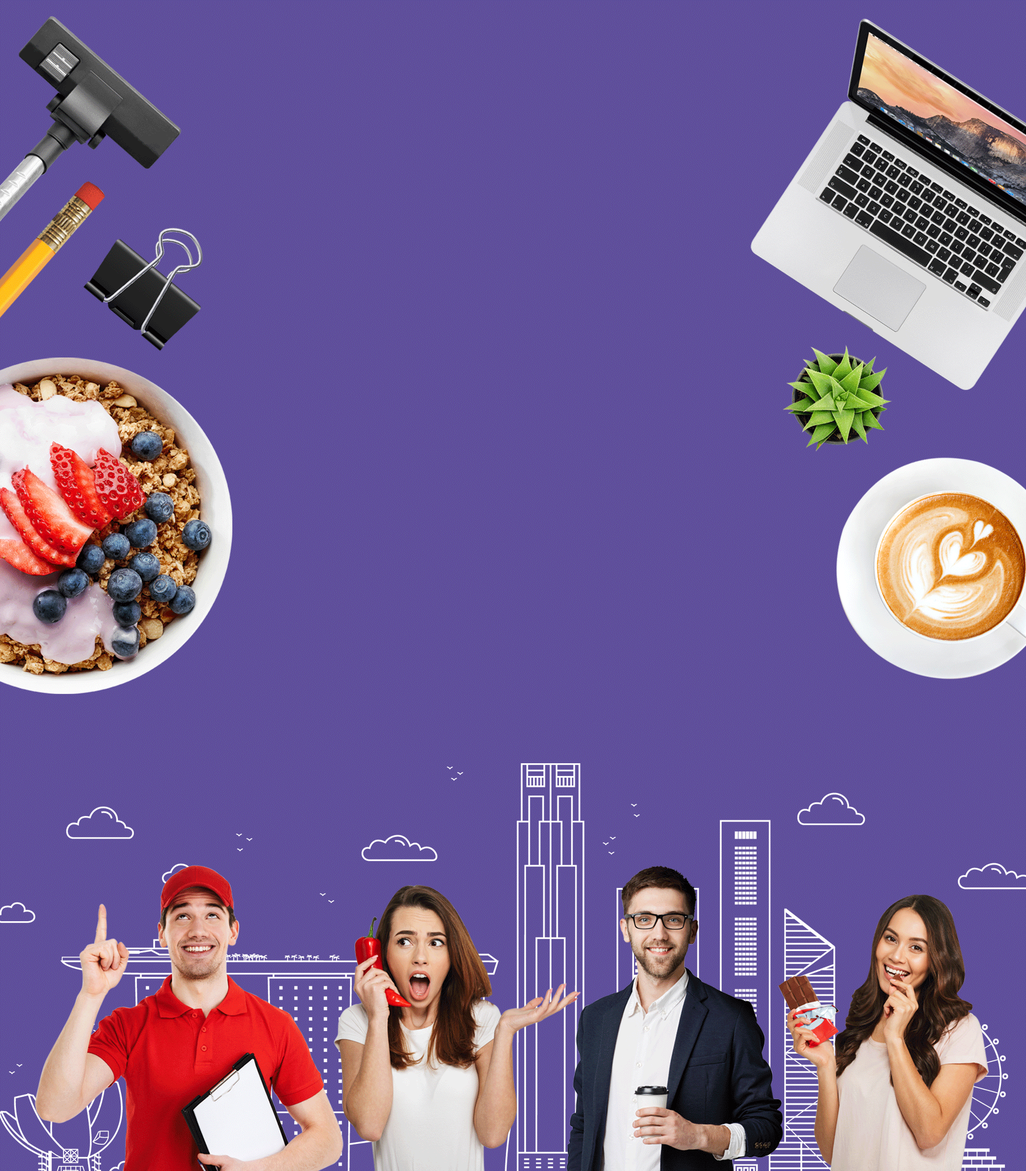
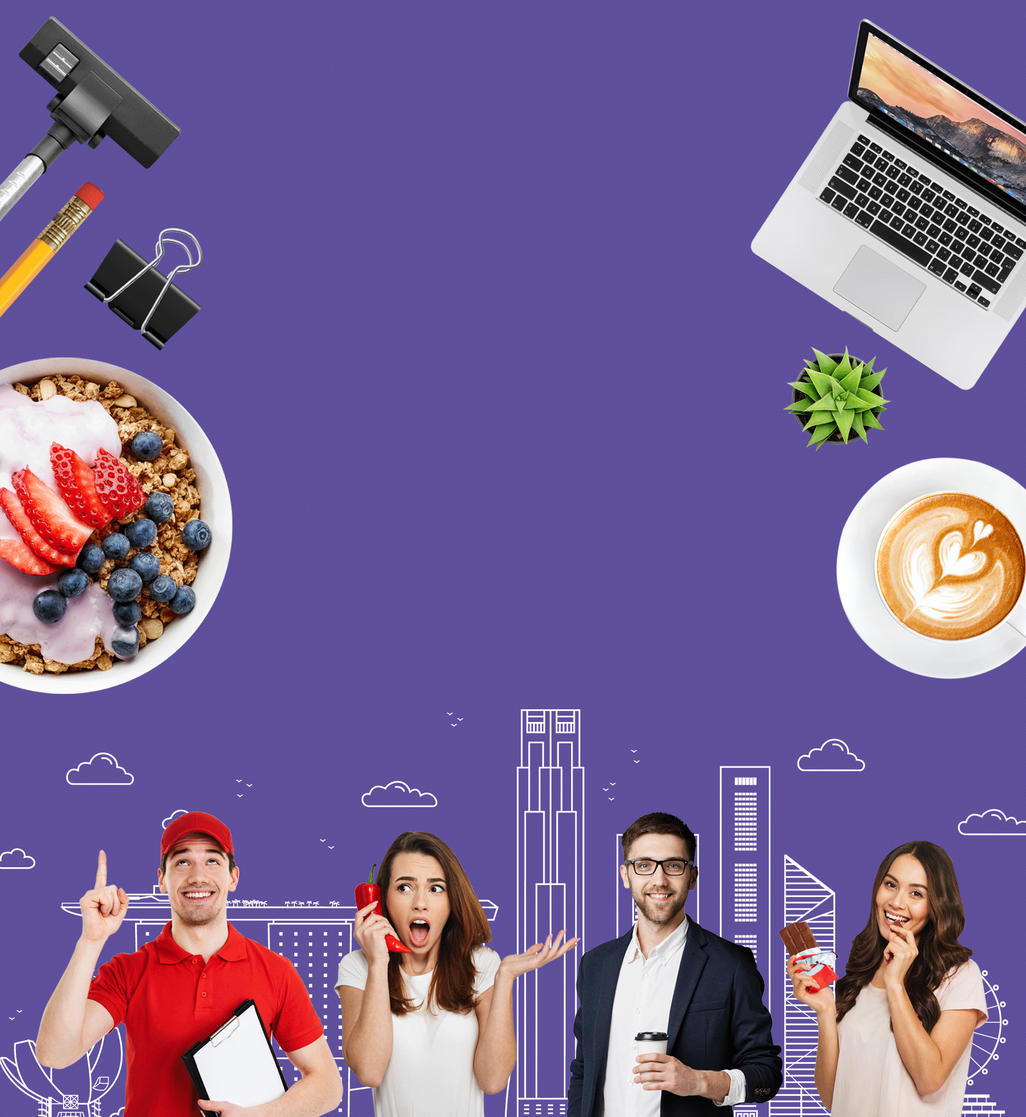
minor fix image login

diff --git a/vendor/assets/stylesheets/spree/frontend/custom.scss b/vendor/assets/stylesheets/spree/frontend/custom.scss
@@ -49,7 +49,7 @@ body {
 .bg-login {
 
   /* Full height */
-  height: 180% !important;
+  height: 200% !important;
 
   /* Center and scale the image nicely */
   background-position: center;
